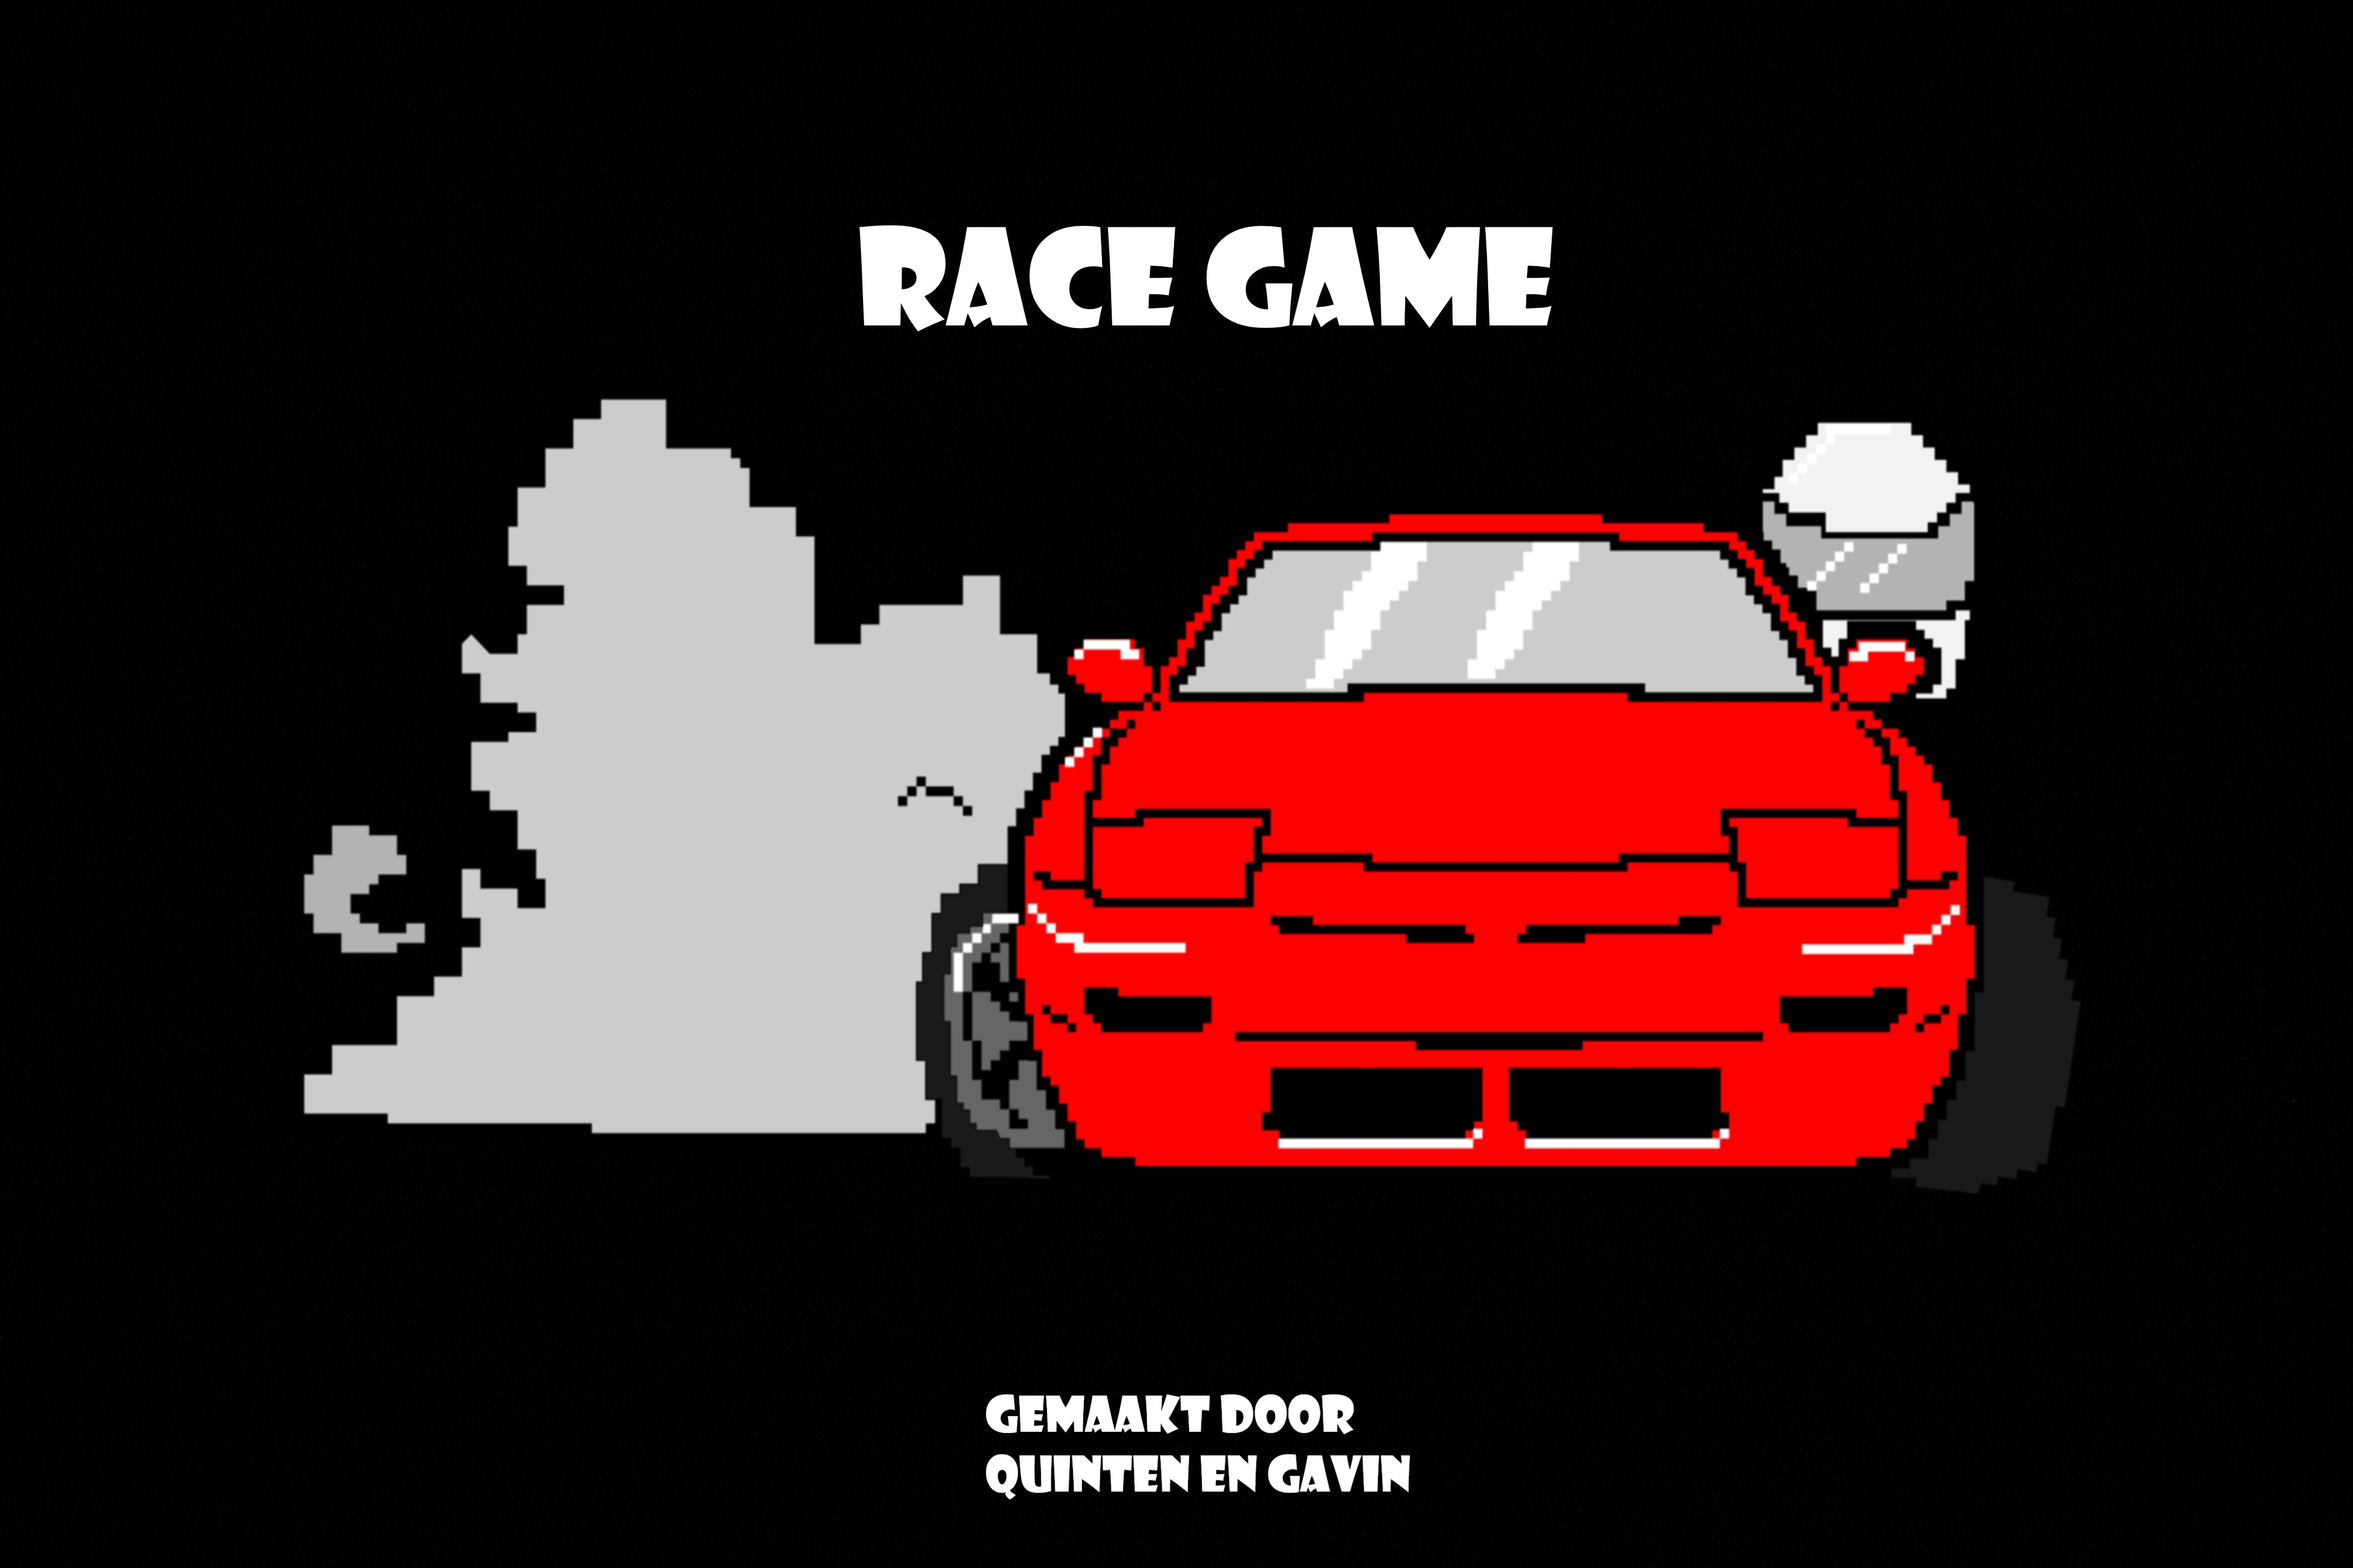
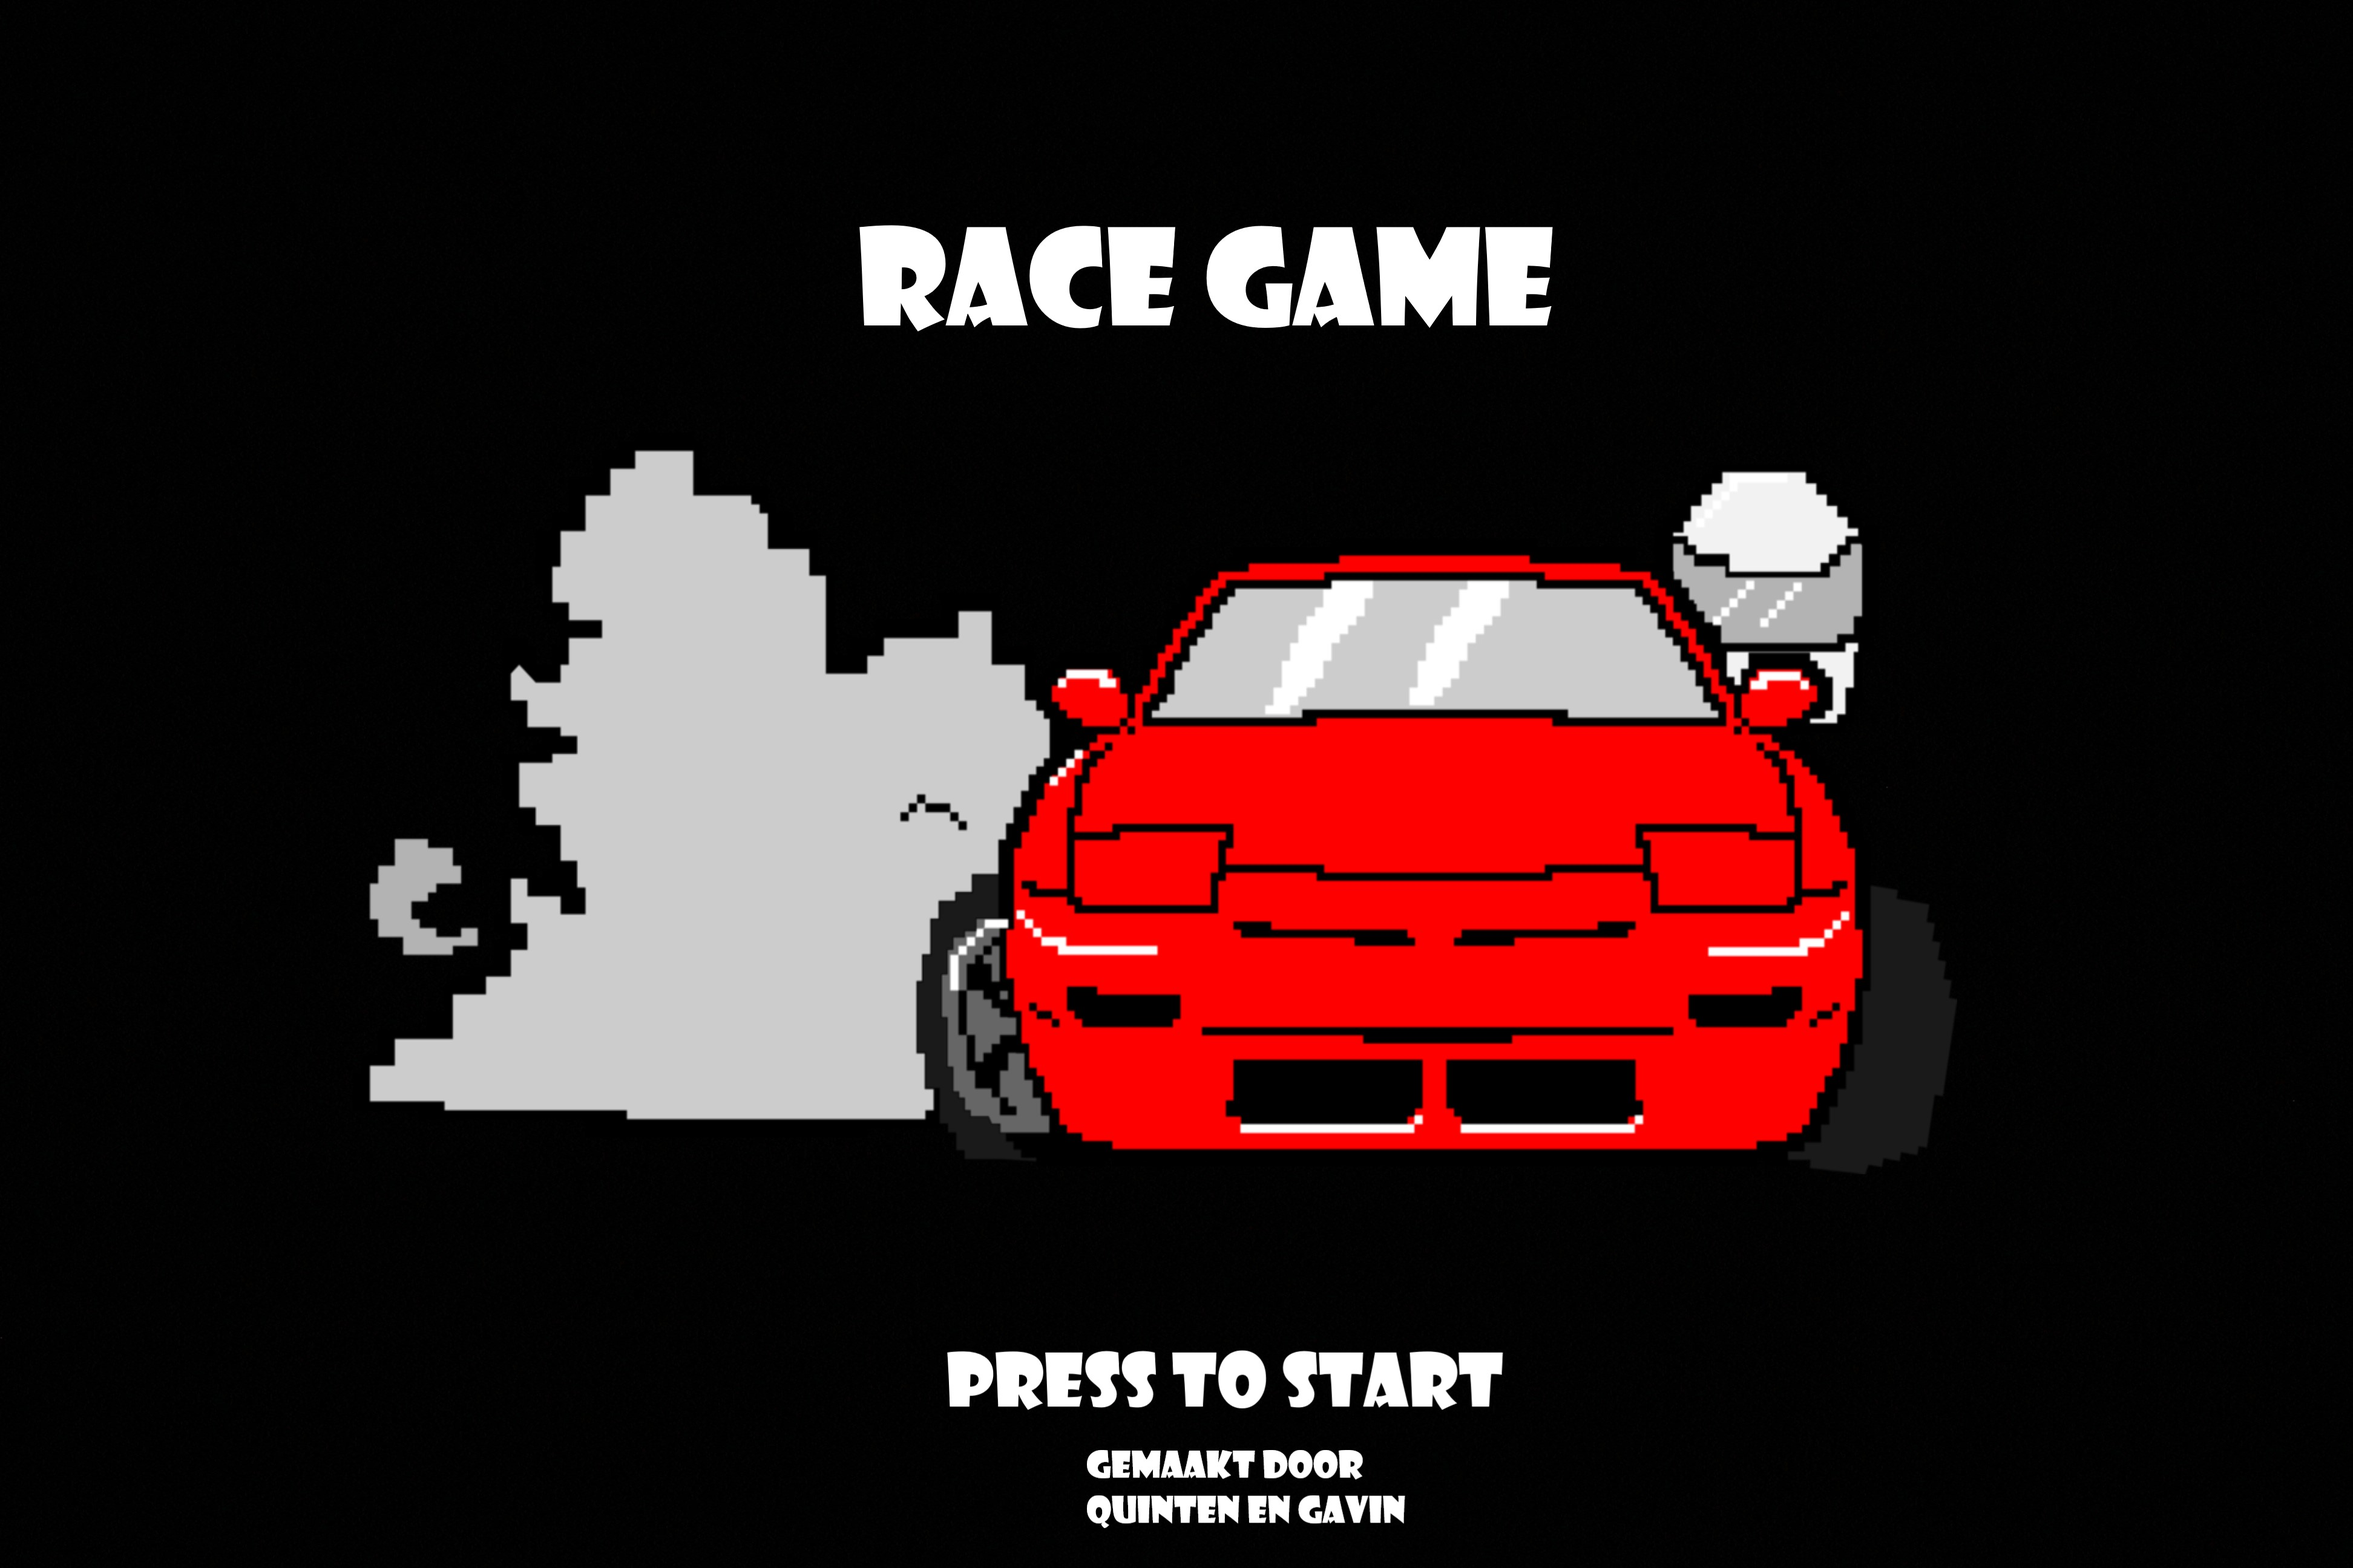
e

Changed region(s): [[0.1245, 0.25, 0.9025, 0.7812], [0.4046, 0.8438, 0.6535, 0.9688]]

diff --git a/script.js b/script.js
@@ -51,6 +51,7 @@ var groeneAutoNW=0;
 var groeneAutoZO=0;
 var groeneAutoZW=0;
 var finishline=0;
+var startscherm=0;
 
 var blauwRichting = AUTORICHTING_Z;
 var groenRichting = AUTORICHTING_Z;
@@ -120,6 +121,9 @@ function preload() {
 
     // finishline plaatje
     finishline = loadImage('afbeeldingen/finishline.png');
+
+    // startscherm plaatje
+    startscherm = loadImage('afbeeldingen/startscherm.jpg');
 }
 
 
@@ -456,7 +460,7 @@ function setup() {
 function draw() {
   switch (spelStatus) {
     case UITLEG:
-    background('white')
+    background(startscherm)
     if (mouseIsPressed){
         spelStatus = SPELEN;
     }
